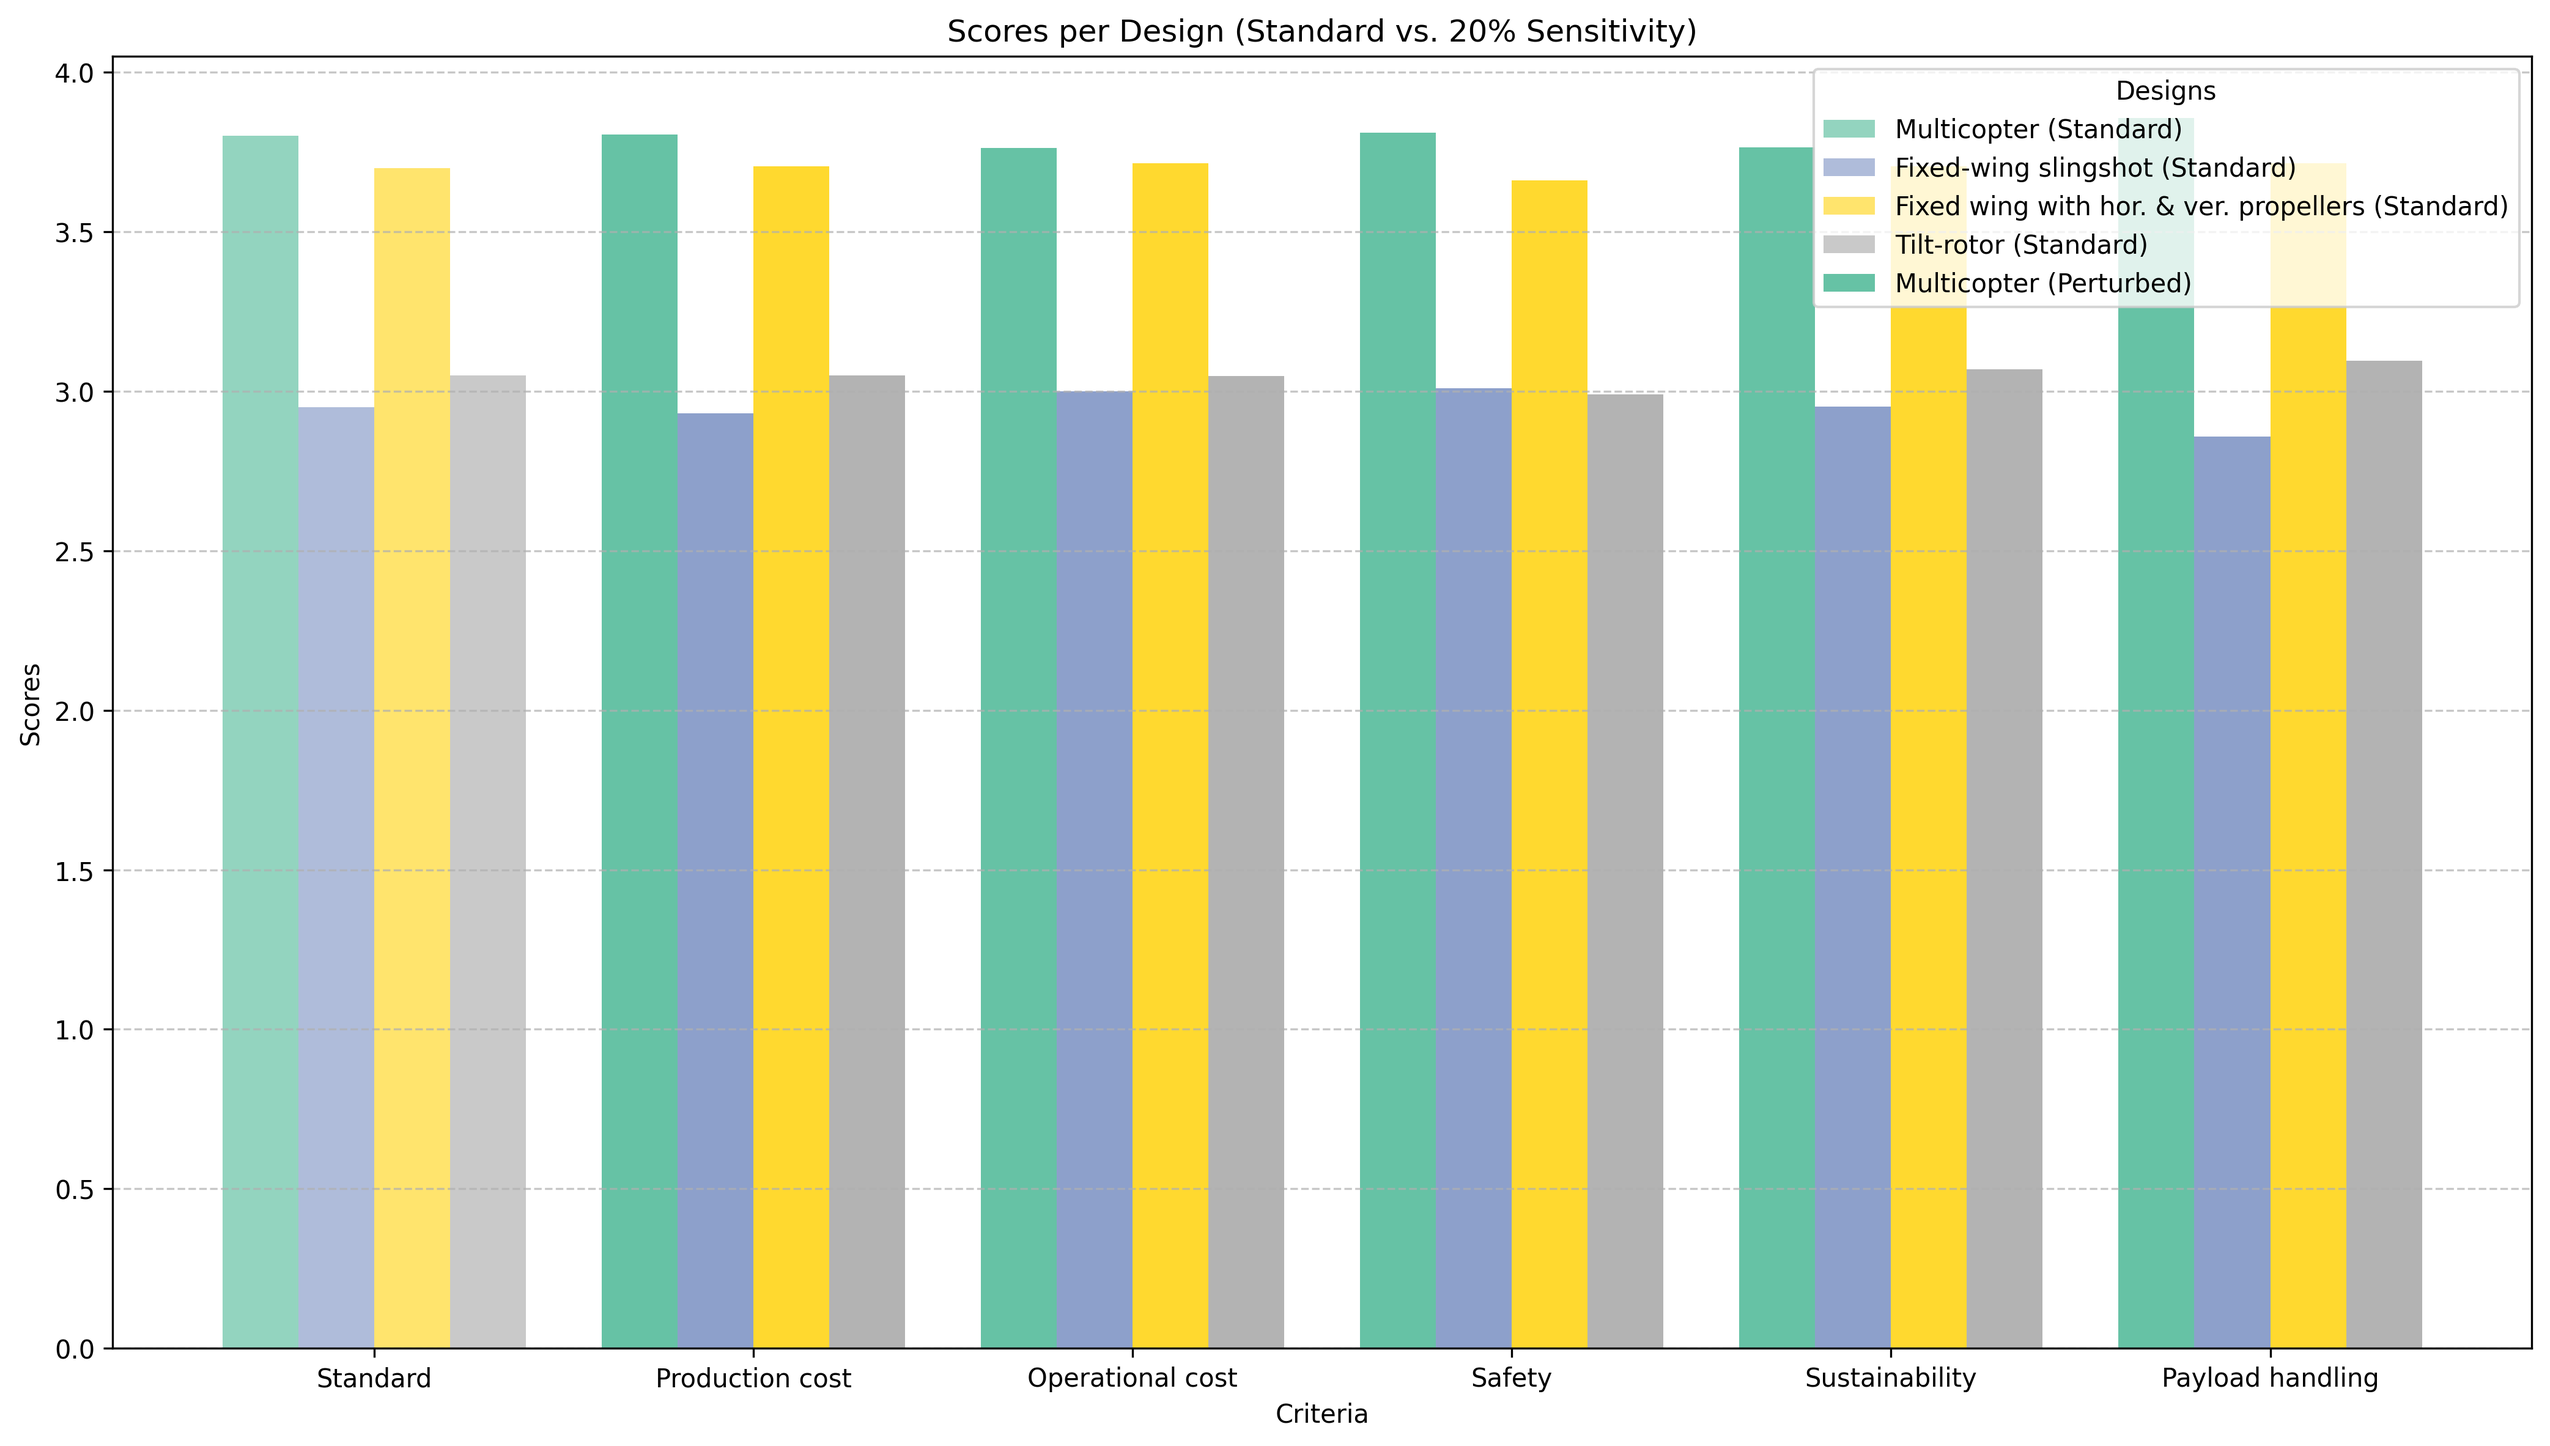
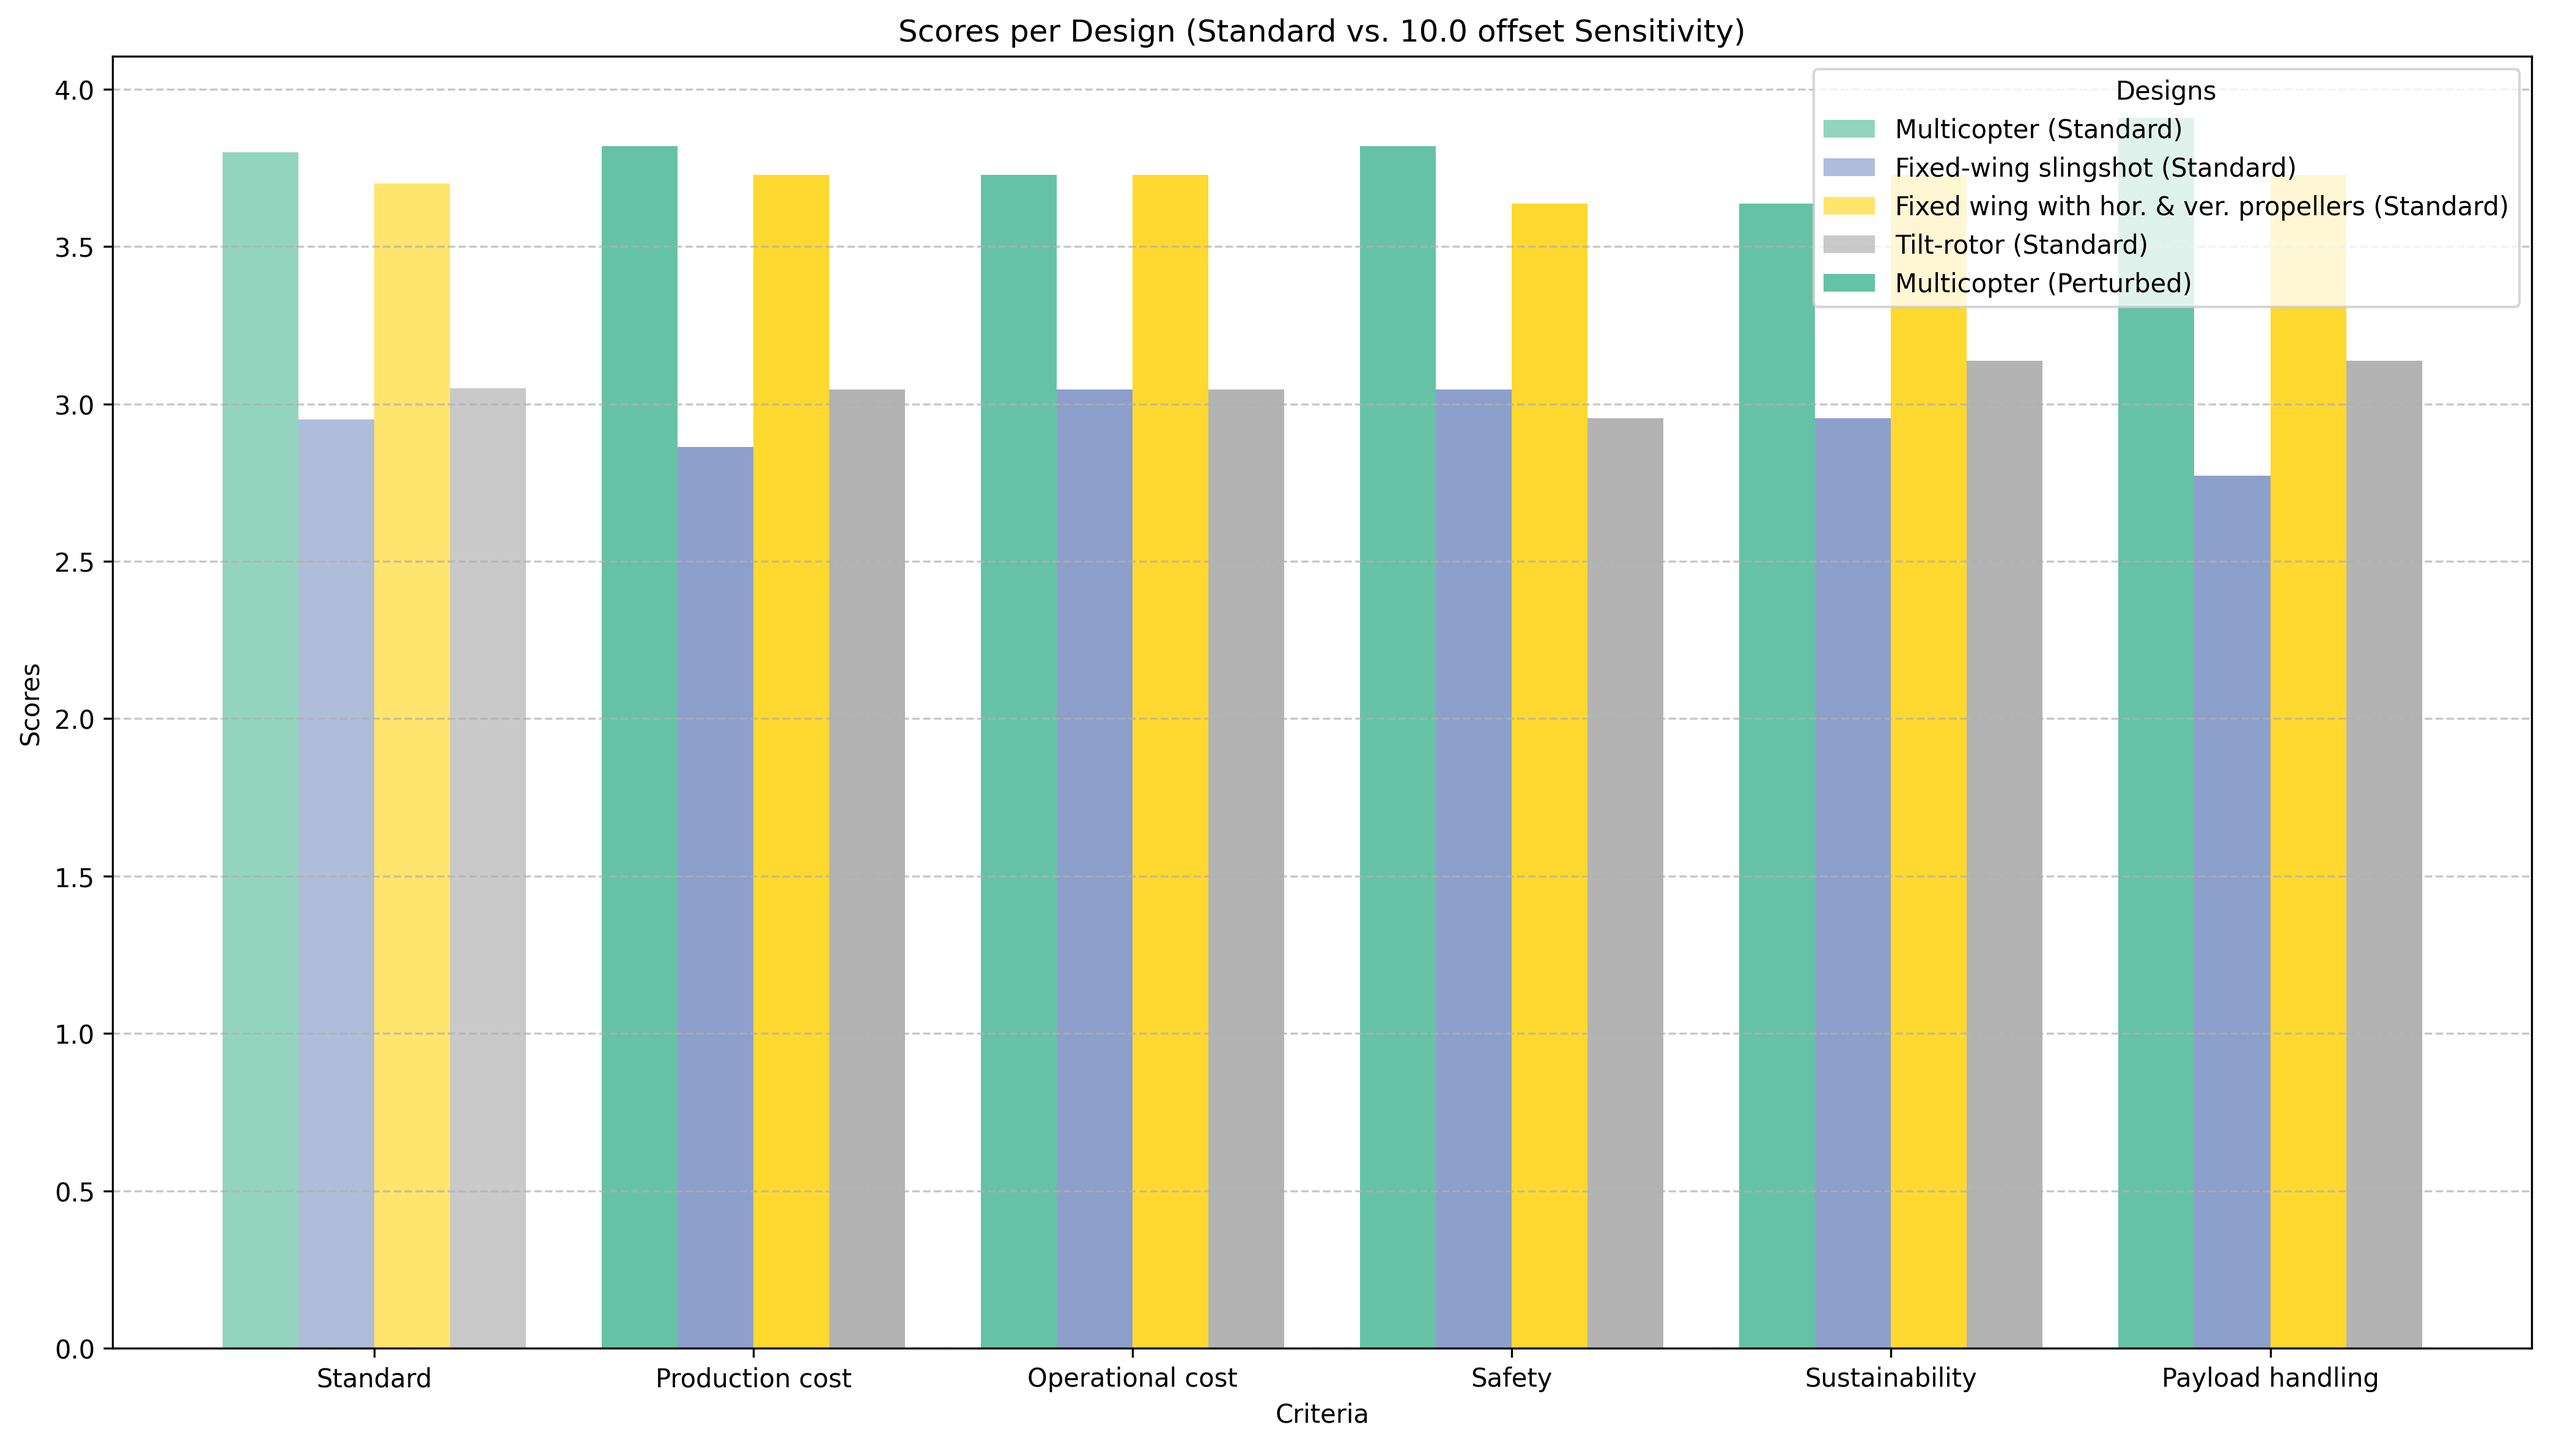
tradeoff sensitivity final

diff --git a/tradeoff.py b/tradeoff.py
@@ -24,6 +24,8 @@ weights = np.array([0.1, 0.25, 0.3, 0.1, 0.25])
 def calculate_scores(scores, weights):
     return np.dot(scores, weights)
 
+print(np.dot(scores, weights))
+
 # Sensitivity study
 num_simulations = 1000
 winners = []
@@ -60,23 +62,24 @@ plt.savefig(os.path.join(plot_path, "sensitivity_gaussian.png"), dpi=300, bbox_i
 
 # Calculate standard results (scores with original weights)
 standard_scores = calculate_scores(scores, weights)
-
+margin = 0.1
 # Initialize a matrix to store scores for each design after perturbing each criterion
 perturbed_scores = []
 
 for i, crit in enumerate(criteria):
     # Add 20% error to the current criterion
     perturbed_weights = weights.copy()
-    perturbed_weights[i] += 0.2 * weights[i]
-    perturbed_weights = np.abs(perturbed_weights)  # Ensure no negative weights
-    perturbed_weights /= np.sum(perturbed_weights)  # Normalize to sum to 1
-
+    # perturbed_weights[i] += 0.2 * weights[i]
+    perturbed_weights[i] = margin + weights[i]
+    # perturbed_weights /= np.sum(perturbed_weights)  # Normalize to sum to 1
+    print(f"perturbed_weights {i, crit}: {perturbed_weights}")
     # Calculate scores with the perturbed weights
     total_scores = calculate_scores(scores, perturbed_weights)
     perturbed_scores.append(total_scores)
-
+print(perturbed_scores)
 # Convert to a NumPy array for easier manipulation
 perturbed_scores = np.array(perturbed_scores)  # Shape: (num_criteria, num_concepts)
+print(perturbed_scores)
 
 # Plot the results
 x = np.arange(len(criteria) + 1)  # Add one position for the standard results
@@ -111,9 +114,39 @@ for j, concept in enumerate(concepts):
 # Update x-axis labels
 plt.xlabel("Criteria")
 plt.ylabel("Scores")
-plt.title("Scores per Design (Standard vs. 20% Sensitivity)")
+plt.title(f"Scores per Design (Standard vs. {margin*100} offset Sensitivity)")
 plt.xticks(x, ["Standard"] + criteria)  # Add "Standard" as the first label
 plt.legend(title="Designs")
 plt.grid(axis='y', linestyle='--', alpha=0.7)
 plt.tight_layout()
 plt.savefig(os.path.join(plot_path, "sensitivity_linear.png"), dpi=300, bbox_inches='tight')
+plt.close()
+# Calculate the change in scores from the standard
+score_changes = perturbed_scores - standard_scores
+print(standard_scores)
+print(calculate_scores(scores, weights))
+
+# Plot the changes
+plt.figure(figsize=(14, 8))
+
+# Plot changes for each design
+for j, concept in enumerate(concepts):
+    plt.bar(
+        x[1:] + j * width - (width * (len(concepts) - 1) / 2),  # Offset for each design
+        score_changes[:, j],
+        width,
+        label=concept,
+        color=colors[j]
+    )
+
+# Update x-axis labels
+plt.xlabel("Criteria")
+plt.ylabel("Change in Scores")
+plt.title("Change in Scores per Design (20% Sensitivity)")
+plt.xticks(x[1:], criteria)  # Only show criteria labels (no "Standard")
+plt.axhline(0, color='black', linestyle='--', linewidth=1, alpha=0.7)  # Add a horizontal line at 0
+plt.legend(title="Designs")
+plt.grid(axis='y', linestyle='--', alpha=0.7)
+plt.tight_layout()
+plt.savefig(os.path.join(plot_path, "sensitivity_change.png"), dpi=300, bbox_inches='tight')
+plt.close()

diff --git a/temporary files/vert_and_hori.py b/temporary files/vert_and_hori.py
@@ -5,9 +5,9 @@ import pandas as pd
 # constants
 g = 9.81  # m/s^2, acceleration due to gravity
 payload_mass = 2.5 * g  # kg, payload mass
-V_cruise = 10  # m/s, cruise speed
+V_cruise = 15  # m/s, cruise speed
 rho = 1.225  # kg/m^3, air density at sea level
-CL_cruise = 0.5  # lift coefficient (placeholder value)
+CL_cruise = 0.7  # lift coefficient (placeholder value)
 CLoverCD_cruise = 10  # lift-to-drag ratio (placeholder value)
 CD_cruise = CL_cruise / CLoverCD_cruise  # drag coefficient (placeholder value)
 CD_flat_plate = 1.17  # flat plate drag coefficient at 90deg aoa
